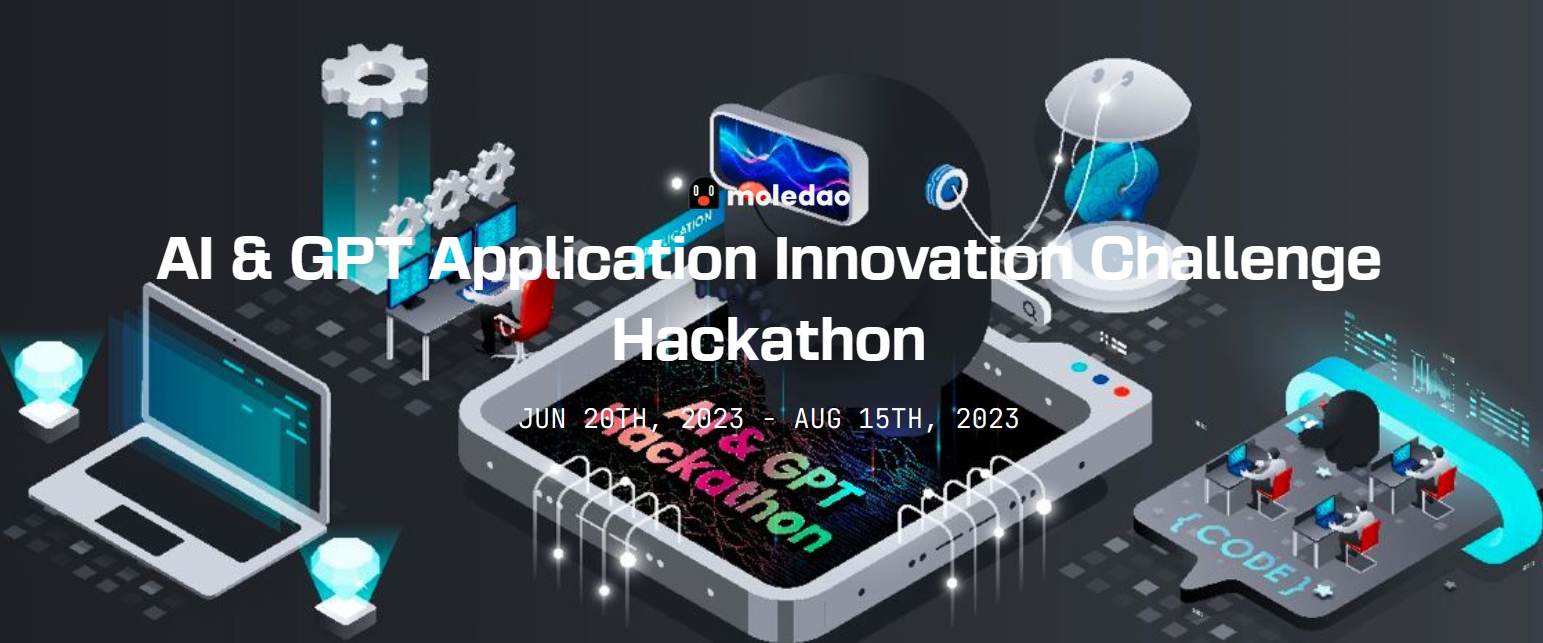
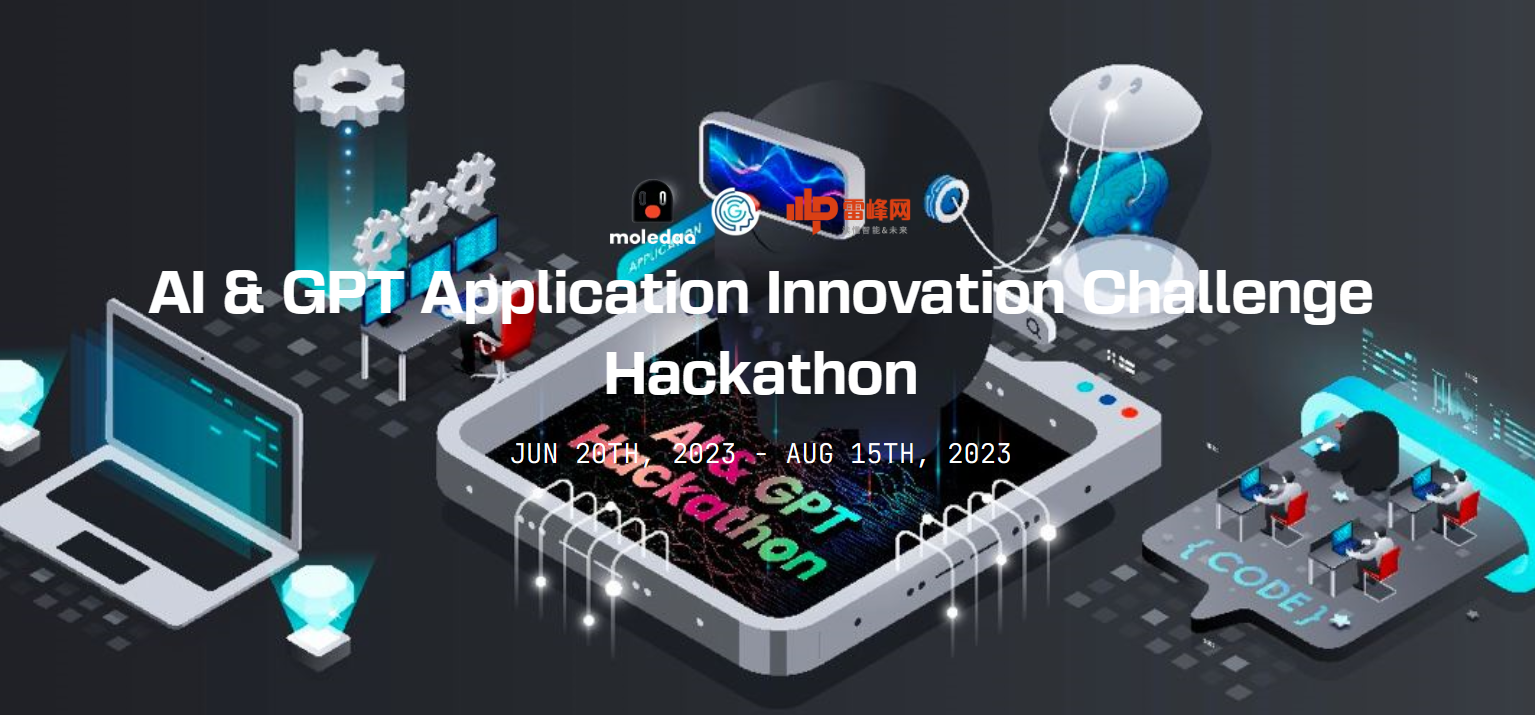
+event png

diff --git a/src/app/[lng]/campaigns/[challengeId]/hero.tsx b/src/app/[lng]/campaigns/[challengeId]/hero.tsx
@@ -52,7 +52,7 @@ export function ChallengeHero({ challenge, lng, t }: ChallengeHeroProps) {
       ) : challenge.id === '5' ? (
         <>
           <Image
-            src="/sponsors/ev-5.png"
+            src="/sponsors/ev-5.1.png"
             width={392}
             height={80}
             alt=""
